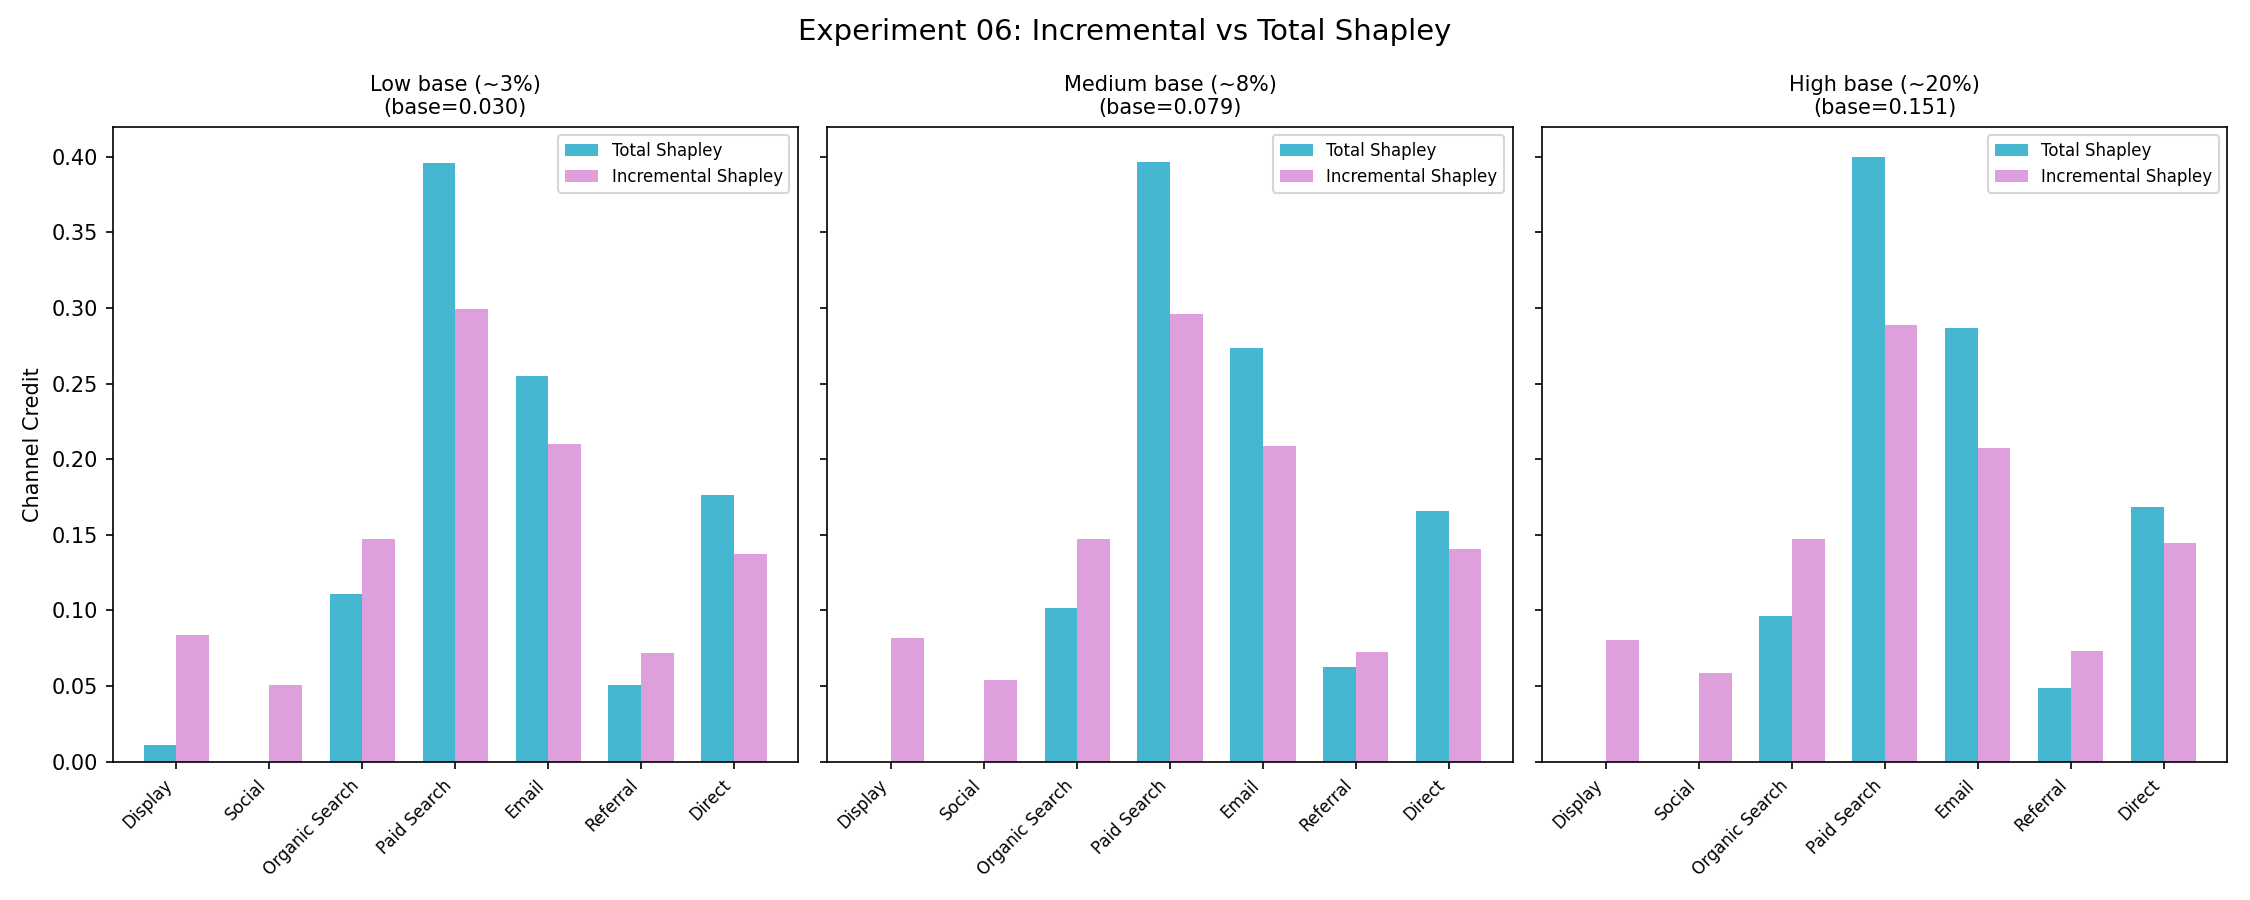
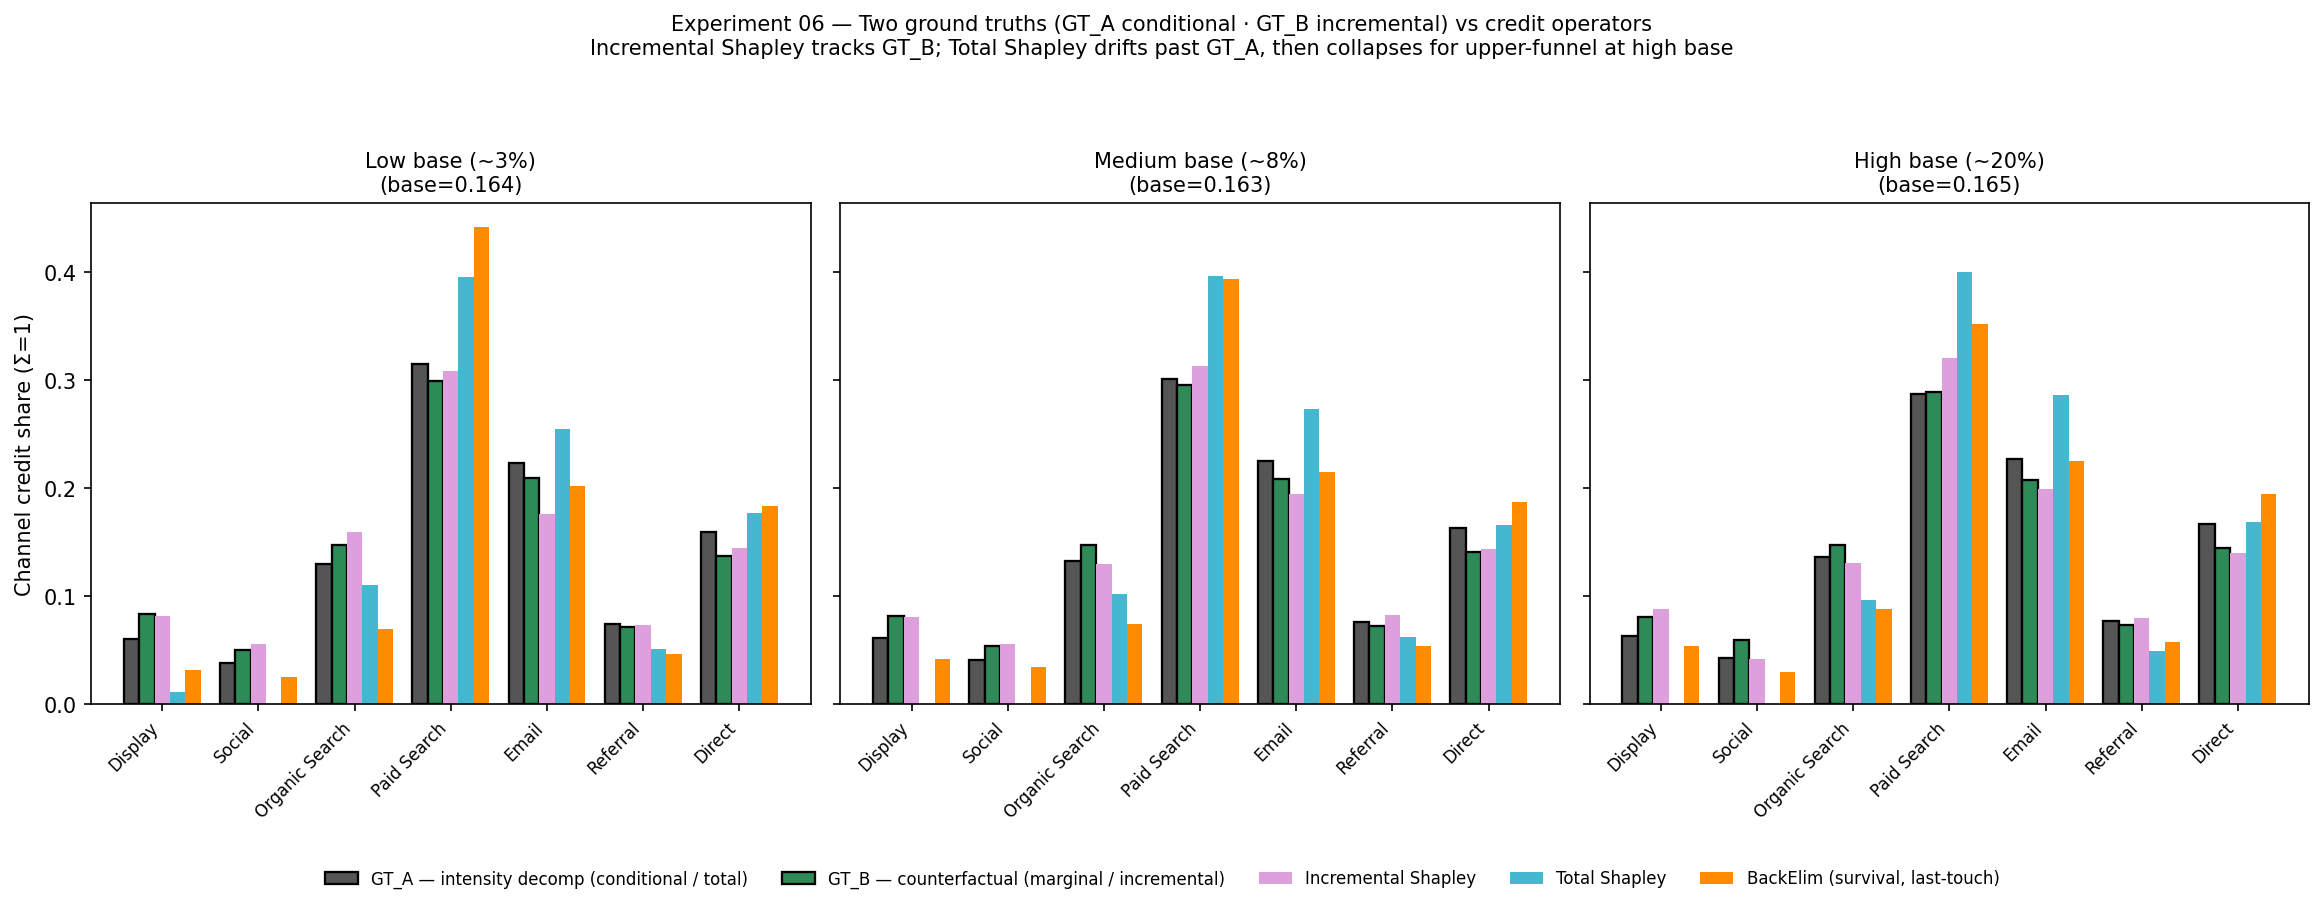
exp06: 5-series figure (GT_A·GT_B + BackElim) + expand industry narrative
- experiments/06: overlay two ground truths (GT_A conditional / GT_B
  incremental) with Incremental·Total·BackElim, normalized to credit share;
  regenerate CSV (new ground_truth_a/_b columns) + 5-series PNG
- README.{md,en}: §4.2 journey-design playbook (2 lenses, real templates),
  §4.5 managerial upgrade case (2.9× MAE / A/B-aligned estimand), §exp① captions
- naturalize Korean prose (README.md authored sections)

diff --git a/part1_simulation/experiments/06_incremental_vs_total.py b/part1_simulation/experiments/06_incremental_vs_total.py
@@ -26,7 +26,12 @@ from part1_simulation.experiments._common import (
     prepare_output_dir,
     setup_experiment_logging,
 )
+from part1_simulation.evaluation.ground_truth import (
+    compute_ground_truth_intensity,
+    compute_ground_truth_shapley,
+)
 from part1_simulation.models.causal.incremental_shapley import compute_incremental_shapley
+from part1_simulation.models.causal.survival_attribution import compute_survival_attribution
 from part1_simulation.models.shapley import compute_shapley_model_based
 
 logger = logging.getLogger(__name__)
@@ -42,6 +47,24 @@ ALPHA_0_LEVELS = {
     "Medium base (~8%)": -2.5, # base ≈ 8%, total conv ~35%
     "High base (~20%)": -1.8,  # base ≈ 20%, total conv ~55%
 }
+
+# Series shown in the figure: ground truth (GT_B, the counterfactual incremental
+# truth) plus three credit operators. All normalized to channel-credit share (Σ=1)
+# so the four are directly comparable on a single axis. (col, label, color, edge)
+SERIES = [
+    ("ground_truth_a", "GT_A — intensity decomp (conditional / total)", "#555555", "black"),
+    ("ground_truth_b", "GT_B — counterfactual (marginal / incremental)", "#2E8B57", "black"),
+    ("incremental_shapley", "Incremental Shapley", "#DDA0DD", "none"),
+    ("total_shapley", "Total Shapley", "#45B7D1", "none"),
+    ("backelim", "BackElim (survival, last-touch)", "#FF8C00", "none"),
+]
+
+
+def _normalize_share(credits: dict) -> dict:
+    """Clamp negatives and normalize to a channel-credit share summing to 1."""
+    pos = {ch: max(0.0, credits.get(ch, 0.0)) for ch in CHANNEL_NAMES}
+    total = sum(pos.values())
+    return {ch: (v / total if total > 0 else 0.0) for ch, v in pos.items()}
 
 
 def run_experiment_06(output_dir: str = "results/part1") -> pd.DataFrame:
@@ -67,12 +90,34 @@ def run_experiment_06(output_dir: str = "results/part1") -> pd.DataFrame:
             logger.warning(f"  Too few converters ({stats['n_converted']}), skipping")
             continue
 
-        # Total Shapley
+        # Total Shapley (model-based logistic; includes baseline → over-credits)
         total_shap = compute_shapley_model_based(journeys)
 
-        # Incremental Shapley (learns response model from data)
+        # Incremental Shapley (Du; learns response model, subtracts baseline)
         inc_shap = compute_incremental_shapley(journeys, sample_users=3000)
         actual_base_rate = inc_shap.metadata["base_conversion_rate"]
+
+        # Two ground truths (both normalized to a channel-credit share):
+        #   GT_A — intensity decomposition over converters = the CONDITIONAL / total
+        #          truth ("who was present in the conversions"; retrospective audit;
+        #          includes baseline-correlated structure).
+        #   GT_B — counterfactual Shapley = the MARGINAL / incremental truth ("what is
+        #          lost if a channel is removed" — the do-effect an A/B test measures).
+        #          Incremental Shapley targets GT_B.
+        gt_a_credits = compute_ground_truth_intensity(journeys, config)
+        gt_b_credits = compute_ground_truth_shapley(journeys, config, sample_users=3000)
+
+        # Survival/Poisson BackElim — last-touch credit operator on the IPP backbone.
+        be_credits = compute_survival_attribution(
+            journeys, credit_method="backelim"
+        ).channel_credits
+
+        # Normalize every series to a channel-credit share (Σ=1) for comparability.
+        gt_a_n = _normalize_share(gt_a_credits)
+        gt_b_n = _normalize_share(gt_b_credits)
+        inc_n = _normalize_share(inc_shap.channel_credits)
+        tot_n = _normalize_share(total_shap.channel_credits)
+        be_n = _normalize_share(be_credits)
 
         logger.info(f"  Base rate (no ads, learned): {actual_base_rate:.4f}")
         logger.info(f"  Actual conversion rate: {actual_conv_rate:.4f}")
@@ -85,12 +130,12 @@ def run_experiment_06(output_dir: str = "results/part1") -> pd.DataFrame:
                 "base_rate": actual_base_rate,
                 "conversion_rate": actual_conv_rate,
                 "channel": ch,
-                "total_shapley": total_shap.channel_credits.get(ch, 0),
-                "incremental_shapley": inc_shap.channel_credits.get(ch, 0),
-                "difference": (
-                    total_shap.channel_credits.get(ch, 0)
-                    - inc_shap.channel_credits.get(ch, 0)
-                ),
+                "ground_truth_a": gt_a_n.get(ch, 0),
+                "ground_truth_b": gt_b_n.get(ch, 0),
+                "incremental_shapley": inc_n.get(ch, 0),
+                "total_shapley": tot_n.get(ch, 0),
+                "backelim": be_n.get(ch, 0),
+                "difference": tot_n.get(ch, 0) - inc_n.get(ch, 0),
             })
 
     result_df = pd.DataFrame(all_rows)
@@ -106,37 +151,45 @@ def run_experiment_06(output_dir: str = "results/part1") -> pd.DataFrame:
         print(f"\n{level} (base={base_rate:.4f}, conv={conv_rate:.4f}):")
         print(f"  Avg |Total - Incremental|: {mae_diff:.4f}")
         for _, row in subset.iterrows():
-            print(f"  {row['channel']:20s}: Total={row['total_shapley']:.4f}, "
-                  f"Incr={row['incremental_shapley']:.4f}, Δ={row['difference']:+.4f}")
+            print(f"  {row['channel']:20s}: GT_A={row['ground_truth_a']:.3f}  "
+                  f"GT_B={row['ground_truth_b']:.3f}  Incr={row['incremental_shapley']:.3f}  "
+                  f"Total={row['total_shapley']:.3f}  BE={row['backelim']:.3f}")
 
-    # Plot
+    # Plot — 4 series (GT_B + three credit operators), grouped bars per channel,
+    # faceted by base rate. As base rate rises, Total Shapley peels off the ground
+    # truth (collapses for upper-funnel) while Incremental Shapley stays glued to GT.
     levels = result_df["base_rate_level"].unique()
     if len(levels) > 0:
-        fig, axes = plt.subplots(1, len(levels), figsize=(5 * len(levels), 6), sharey=True)
+        fig, axes = plt.subplots(1, len(levels), figsize=(5.2 * len(levels), 6), sharey=True)
         if len(levels) == 1:
             axes = [axes]
+
+        width = 0.16
+        offsets = [-2 * width, -1 * width, 0.0, 1 * width, 2 * width]
 
         for ax, level in zip(axes, levels):
             subset = result_df[result_df["base_rate_level"] == level]
             channels = subset["channel"].values
             x = np.arange(len(channels))
-            width = 0.35
-
-            ax.bar(x - width / 2, subset["total_shapley"], width,
-                   label="Total Shapley", color="#45B7D1")
-            ax.bar(x + width / 2, subset["incremental_shapley"], width,
-                   label="Incremental Shapley", color="#DDA0DD")
-
+            for (col, label, color, edge), off in zip(SERIES, offsets):
+                ax.bar(x + off, subset[col], width, label=label, color=color,
+                       edgecolor=edge, linewidth=(1.1 if edge != "none" else 0.0))
             ax.set_xticks(x)
             ax.set_xticklabels(channels, rotation=45, ha="right", fontsize=8)
             base_rate = subset["base_rate"].iloc[0]
             ax.set_title(f"{level}\n(base={base_rate:.3f})", fontsize=10)
-            ax.legend(fontsize=8)
 
-        axes[0].set_ylabel("Channel Credit")
-        plt.suptitle("Experiment 06: Incremental vs Total Shapley", fontsize=14)
-        plt.tight_layout()
-        plt.savefig(f"{output_dir}/06_incremental_vs_total.png", dpi=150)
+        axes[0].set_ylabel("Channel credit share (Σ=1)")
+        handles, labels = axes[0].get_legend_handles_labels()
+        fig.legend(handles, labels, loc="lower center", ncol=len(SERIES),
+                   fontsize=8, frameon=False)
+        plt.suptitle(
+            "Experiment 06 — Two ground truths (GT_A conditional · GT_B incremental) vs credit operators\n"
+            "Incremental Shapley tracks GT_B; Total Shapley drifts past GT_A, then collapses for upper-funnel at high base",
+            fontsize=10,
+        )
+        plt.tight_layout(rect=[0, 0.06, 1, 0.93])
+        plt.savefig(f"{output_dir}/06_incremental_vs_total.png", dpi=150, bbox_inches="tight")
         plt.close()
 
     return result_df

diff --git a/part1_simulation/README.en.md b/part1_simulation/README.en.md
@@ -45,17 +45,19 @@
 The method's two outputs, and the two experiments I consider most important here.
 
 **① Incremental vs Total — why "incremental" is non-negotiable (Experiment 06).**
-Raising the base conversion rate from ~3% to ~20%, I compare **Total Shapley** and **Incremental Shapley** channel credit.
-Because Total Shapley credits the baseline conversion too ("what would have happened with no ads"), as the base rate
-rises the **upper-funnel channels (Display·Social) collapse to zero credit** while lower-funnel (Paid Search) is over-valued.
-Incremental Shapley subtracts the baseline to isolate **only the ad-driven lift** → stable at any base rate.
+Raising the base conversion rate from ~3% to ~20%, I overlay **two ground truths and three credit operators**. The two truths are
+**GT_A** (intensity decomposition) = *"who was present in the conversions"* (the **conditional / audit** truth; leans to the strong lower-funnel) and
+**GT_B** (counterfactual) = *"what is lost if you remove this channel"* (the do(remove) lift = the **marginal / forward** truth an A/B test measures; recovers more of the upper-funnel's causal role) — same ranking, different magnitude (§2.4; Paid Search GT_A 0.315 > GT_B 0.299, Display GT_B 0.084 > GT_A 0.061).
+Of the operators, **Total Shapley** credits the baseline too, so as the base rate rises it **collapses upper-funnel (Display·Social) to zero** and over-credits Paid Search beyond both truths.
+**Incremental Shapley** subtracts the baseline and **stays inside the two-truth band** → stable at any base rate (BackElim over-concentrates on the last touch).
 > **Why it matters**: in high-baseline businesses (subscription renewals, brand), using Total Shapley **over-invests budget in
 > Paid Search** — not the real value driver. This is why incremental is *required, not optional*.
 
 <p align="center">
-  <img src="../results/part1/06_incremental_vs_total.png" alt="Incremental vs Total Shapley by base rate — Total collapses to zero for upper-funnel, Incremental stays stable" width="780">
-  <br><sub><b>Figure 2.</b> As the base rate rises, Total Shapley (blue) <b>collapses to zero</b> for Display·Social (high base: Display Total 0.00 vs Incremental 0.080)
-  while Incremental (pink) stays stable. Paid Search shows the opposite — Total over-credits the lower funnel. <i>Experiment 06.</i></sub>
+  <img src="../results/part1/06_incremental_vs_total.png" alt="Two ground truths (GT_A·GT_B) vs three operators (Incremental·Total·BackElim) channel credit by base rate — Incremental stays in the truth band, Total collapses upper-funnel to zero" width="900">
+  <br><sub><b>Figure 2.</b> Five bars on the same IPP: two ground truths (<b>GT_A</b> gray·conditional, <b>GT_B</b> green·incremental — both black-edged) and three operators (Incremental·Total·BackElim).
+  <b>Incremental (pink) stays inside the two-truth band</b> while <b>Total (blue) departs from both</b> — over-crediting Paid Search (high base 0.400 vs GT ~0.29) and <b>collapsing Display·Social to 0</b> (GT 0.080·0.059 → Total 0.00).
+  BackElim (orange) over-concentrates on the last touch. <i>Experiment 06 — why the real incremental credit matters.</i></sub>
 </p>
 
 **② Multi-path contribution — scoring *journeys*, not channels (path-level Incremental Shapley).**
@@ -150,8 +152,8 @@ is BackElim 0.45 vs Shapley 0.32 — **BackElim concentrates the credit on the l
 **Why "incremental" (vs Total Shapley).** Total Shapley credits the baseline conversion too (what would have
 happened with no ads at all). It therefore over-values lower-funnel channels (Paid Search, Email) that ride
 high-intent users, and **collapses to zero for upper-funnel channels (Display·Social) as the base rate rises**
-(Figure 2 above, Experiment 06: at high base, Display Total = 0.00 vs Incremental = 0.080). Incremental Shapley subtracts the
-baseline to isolate **only the ad-driven lift**.
+(Figure 2 above, Experiment 06: at high base, Display is GT 0.080 / Incremental 0.088 but Total 0.00). Incremental Shapley subtracts the
+baseline to isolate **only the ad-driven lift**, staying inside the two ground-truth (GT_A·GT_B) band.
 
 ### 2.3 Multi-path — why a path-level decomposition
 
@@ -274,12 +276,23 @@ once combined with the cost structure.
 > Search. Only methods that combine incremental lift with efficiency (Incremental Shapley allocation MAE
 > **0.013**, Survival/Poisson Shapley **0.019**) identify Email as the real value driver.
 
-### 4.2 Campaign · journey design — 35 reproducible templates
+### 4.2 Campaign · journey design — a playbook from 35 reproducible templates
 
 Path-level Incremental Shapley (§2.3, Figure 3 above) ranks *which journey patterns produce incremental conversions*.
-The 35 robust templates (`count ≥ 5`, mostly short, frequent 2-step paths like Email→Paid Search and
-Direct→Paid Search) are the journeys "working now" — a priority list to amplify. Because channel budget and
-journey design satisfy the **same efficiency identity**, the two decisions never contradict.
+Of 1,786 unique templates, the **35 robust ones** (`count ≥ 5`, covering 15.5% of converters) become an actionable
+campaign playbook when read through **two lenses** — answering the question of *journey design*, not budget.
+
+| Lens | What | Top templates (observed) | Strategic action |
+|---|---|---|---|
+| **Current revenue mainstays** (total contribution = count × mean Δ) | "journeys working now, at scale" | Email→Paid Search (n=37, largest) · Direct→Paid Search (n=24) · Email→Direct (n=20) — short, frequent 2-step | **Defend·amplify**: hold budget, strengthen bids, prevent churn |
+| **Design candidates** (mean Δ = per-user incremental) | "rare but high per-user impact" | Direct→Paid Search→Paid Search (n=5, highest mean Δ) · Email→Email→Paid Search (n=5) — strong 3-step | **Test·scale**: design a nurture sequence, validate via A/B, then scale |
+
+> **Why two lenses**: top-by-total-contribution journeys *already drive revenue*, so the play is to **protect** them;
+> top-by-mean-Δ journeys are *rare but high-lift per user*, so they are candidates to **grow**. Budget defends the
+> mainstays while experiment budget chases the high-Δ rare paths — and because channel budget and journey design come
+> from the **same efficiency identity** (§2.3 channel↔path duality), the two decisions never contradict. *(Source:
+> notebook 02 Cell 24 path-level decomposition — Email→Paid Search is #1 by total contribution (n=37). Values are
+> illustrative against simulation ground truth.)*
 
 ### 4.3 Decision rule — Conditional for the past, Marginal for the future
 
@@ -306,6 +319,29 @@ Marginal. → 1-page practitioner guide: [`docs/Marketing_Handout_Conditional_vs
   which benchmarks all 18 methods through one harness, OOS AUC clusters around ~0.64 (the values differ because the evaluation
   setup differs). Either way it serves as a *reasonableness gate* — "predictive power hasn't collapsed" — not a proof of causal validity.</sub>
 </p>
+
+### 4.5 Why upgrade to this method — the managerial case
+
+From a manager's seat, this upgrade isn't a model flourish — it's **a change that de-risks budget decisions**.
+
+1. **Classic attribution buys the *wrong* budget.** Last Click, Linear, and Total Shapley credit the baseline
+   conversion (what would have happened with no ads), so they **over-allocate to Paid Search**, which rides high-intent
+   users — even though the real efficiency leader is Email (§4.1: efficiency 152.7 vs Paid Search 0.19). Rule-based
+   methods ignore the time and cost structure entirely.
+2. **Same backbone, swap only the credit operator → accuracy jumps.** On the same IPP, going BackElim→Shapley alone
+   improves **channel MAE 2.9× and allocation 4.4×** (0.046→0.016, 0.083→0.019). And the survival backbone tackles
+   head-on what rule-based misses: **right-censoring** ("no conversion in 8h ≠ zero effect") and **channel-specific
+   time decay** (§2.1).
+3. **The estimand aligns with the decision.** What Marginal G-computation recovers is the **do(remove channel)
+   counterfactual — exactly what an A/B test measures**. So the offline observational estimate is *A/B-validatable* and
+   fits forward budget decisions. The two views (Conditional/Marginal) agree on ranking at ρ=1.000, so the recommendation is robust.
+4. **Stakeholders can trust it.** Low bootstrap variance (mean CV 0.13) makes it reportable, and the method is labeled
+   honestly as **causal — outcome-model only** (no propensity correction), so it doesn't overclaim — with the next
+   upgrade (DR/IPW-weighted survival, Tier 2) named for when the assumptions break.
+
+> In one line: **"same data, same backbone, swapped to the estimand the decision actually needs — and out comes a more
+> accurate, more stable, A/B-validatable budget recommendation."** That is what justifies the incremental·survival
+> upgrade *in industry*.
 
 ---
 
@@ -400,7 +436,7 @@ part1_simulation/
 | 03 | Data-scale sensitivity | data needs vary by method (survival converges ~10K) | [`03_data_scale.csv`](../results/part1/03_data_scale.csv) |
 | 04 | DGP-assumption sensitivity | survival robust across DGP variants (Shapley improves w/o decay) | [`04_dgp_sensitivity.csv`](../results/part1/04_dgp_sensitivity.csv) |
 | 05 | Correlational vs causal | under moderate confounding, debiased doesn't beat correlational | [`05_correlational_vs_causal.csv`](../results/part1/05_correlational_vs_causal.csv) |
-| 06 | Incremental vs Total | at high base, Total collapses to 0, Incremental stays stable | [`06_incremental_vs_total.csv`](../results/part1/06_incremental_vs_total.csv) |
+| 06 | GT(A·B) vs Incremental·Total·BackElim | Incremental stays in the two-truth band; at high base Total collapses upper-funnel to 0 | [`06_incremental_vs_total.csv`](../results/part1/06_incremental_vs_total.csv) |
 | 07 | Budget optimization | Incremental Shapley allocation MAE 0.013 (#1) | [`07_budget_optimization.csv`](../results/part1/07_budget_optimization.csv) |
 | 08 | OOS predictive validation | AUC ~0.64 clustered; strong negative GT-MAE↔OOS-AUC correlation | [`08_predictive_validation.csv`](../results/part1/08_predictive_validation.csv) |
 | 09 | Decision impact | allocation→revenue lift; a "+lift" can be an artifact of a failed allocation | [`09_decision_impact.csv`](../results/part1/09_decision_impact.csv) |